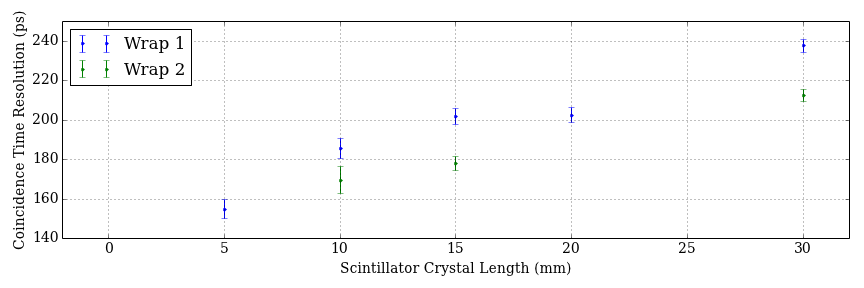
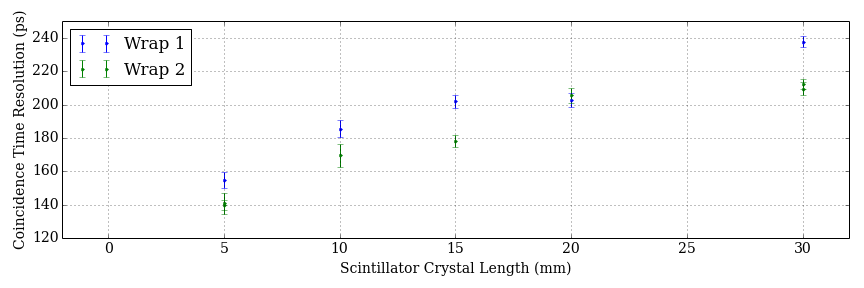
added additional measurements for standard ctr

diff --git a/Standard table.tex b/Standard table.tex
@@ -3,14 +3,22 @@
 \begin{tabular}{lrlllllr}
 configuration &  length (mm) & Left Energy Resolution (\%) & Right Energy Resolution (\%) & Detected $\gamma\gamma$ Events & Delay Peak Centroid (ps) & CTR (ps) &  $\chi^2_\text{Reduced}$ \\
 \hline
+      wrapped &      5 &   6.89$\pm$0.05 &   7.29$\pm$0.05 &  1526$\pm$39 &   -64.8$\pm$1.6 &  139.9$\pm$3.0 &        1.2 \\
+      wrapped &      5 &   6.33$\pm$0.08 &   7.36$\pm$0.09 &   361$\pm$19 &   -68.8$\pm$3.4 &  140.8$\pm$6.5 &        0.6 \\
       wrapped &      5 &   7.05$\pm$0.07 &   9.44$\pm$0.09 &   856$\pm$29 &   -68.8$\pm$2.4 &  154.9$\pm$4.9 &        1.2 \\
       wrapped &     10 &   6.66$\pm$0.05 &   7.59$\pm$0.05 &   515$\pm$23 &  -168.4$\pm$3.6 &  169.7$\pm$7.0 &        0.9 \\
       wrapped &     10 &   8.24$\pm$0.06 &   9.63$\pm$0.07 &  1032$\pm$32 &  -124.4$\pm$2.6 &  185.6$\pm$5.0 &        0.8 \\
       wrapped &     15 &   6.82$\pm$0.04 &   7.67$\pm$0.04 &  1569$\pm$40 &  -108.8$\pm$2.0 &  178.2$\pm$3.6 &        1.0 \\
       wrapped &     15 &   9.05$\pm$0.05 &   9.07$\pm$0.05 &  1875$\pm$43 &  -176.0$\pm$2.1 &  201.9$\pm$4.1 &        0.8 \\
       wrapped &     20 &  10.97$\pm$0.05 &   9.85$\pm$0.05 &  1731$\pm$42 &   -85.2$\pm$2.2 &  202.7$\pm$4.0 &        1.4 \\
+      wrapped &     20 &   6.99$\pm$0.03 &   9.27$\pm$0.04 &  2003$\pm$45 &  -131.1$\pm$2.1 &  205.5$\pm$4.5 &        1.1 \\
+      wrapped &     30 &   9.52$\pm$0.05 &  10.72$\pm$0.06 &  2369$\pm$49 &   -67.9$\pm$1.9 &  209.6$\pm$3.8 &        1.3 \\
       wrapped &     30 &   9.73$\pm$0.04 &  10.79$\pm$0.05 &  3502$\pm$59 &   -70.6$\pm$1.6 &  212.4$\pm$3.0 &        1.4 \\
       wrapped &     30 &  10.94$\pm$0.04 &  13.07$\pm$0.06 &  3382$\pm$58 &   -58.6$\pm$1.8 &  237.7$\pm$3.3 &        2.1 \\
+\bottomrule
+\end{tabular}
+
+
 \hline
 \end{tabular}
 \end{table}
